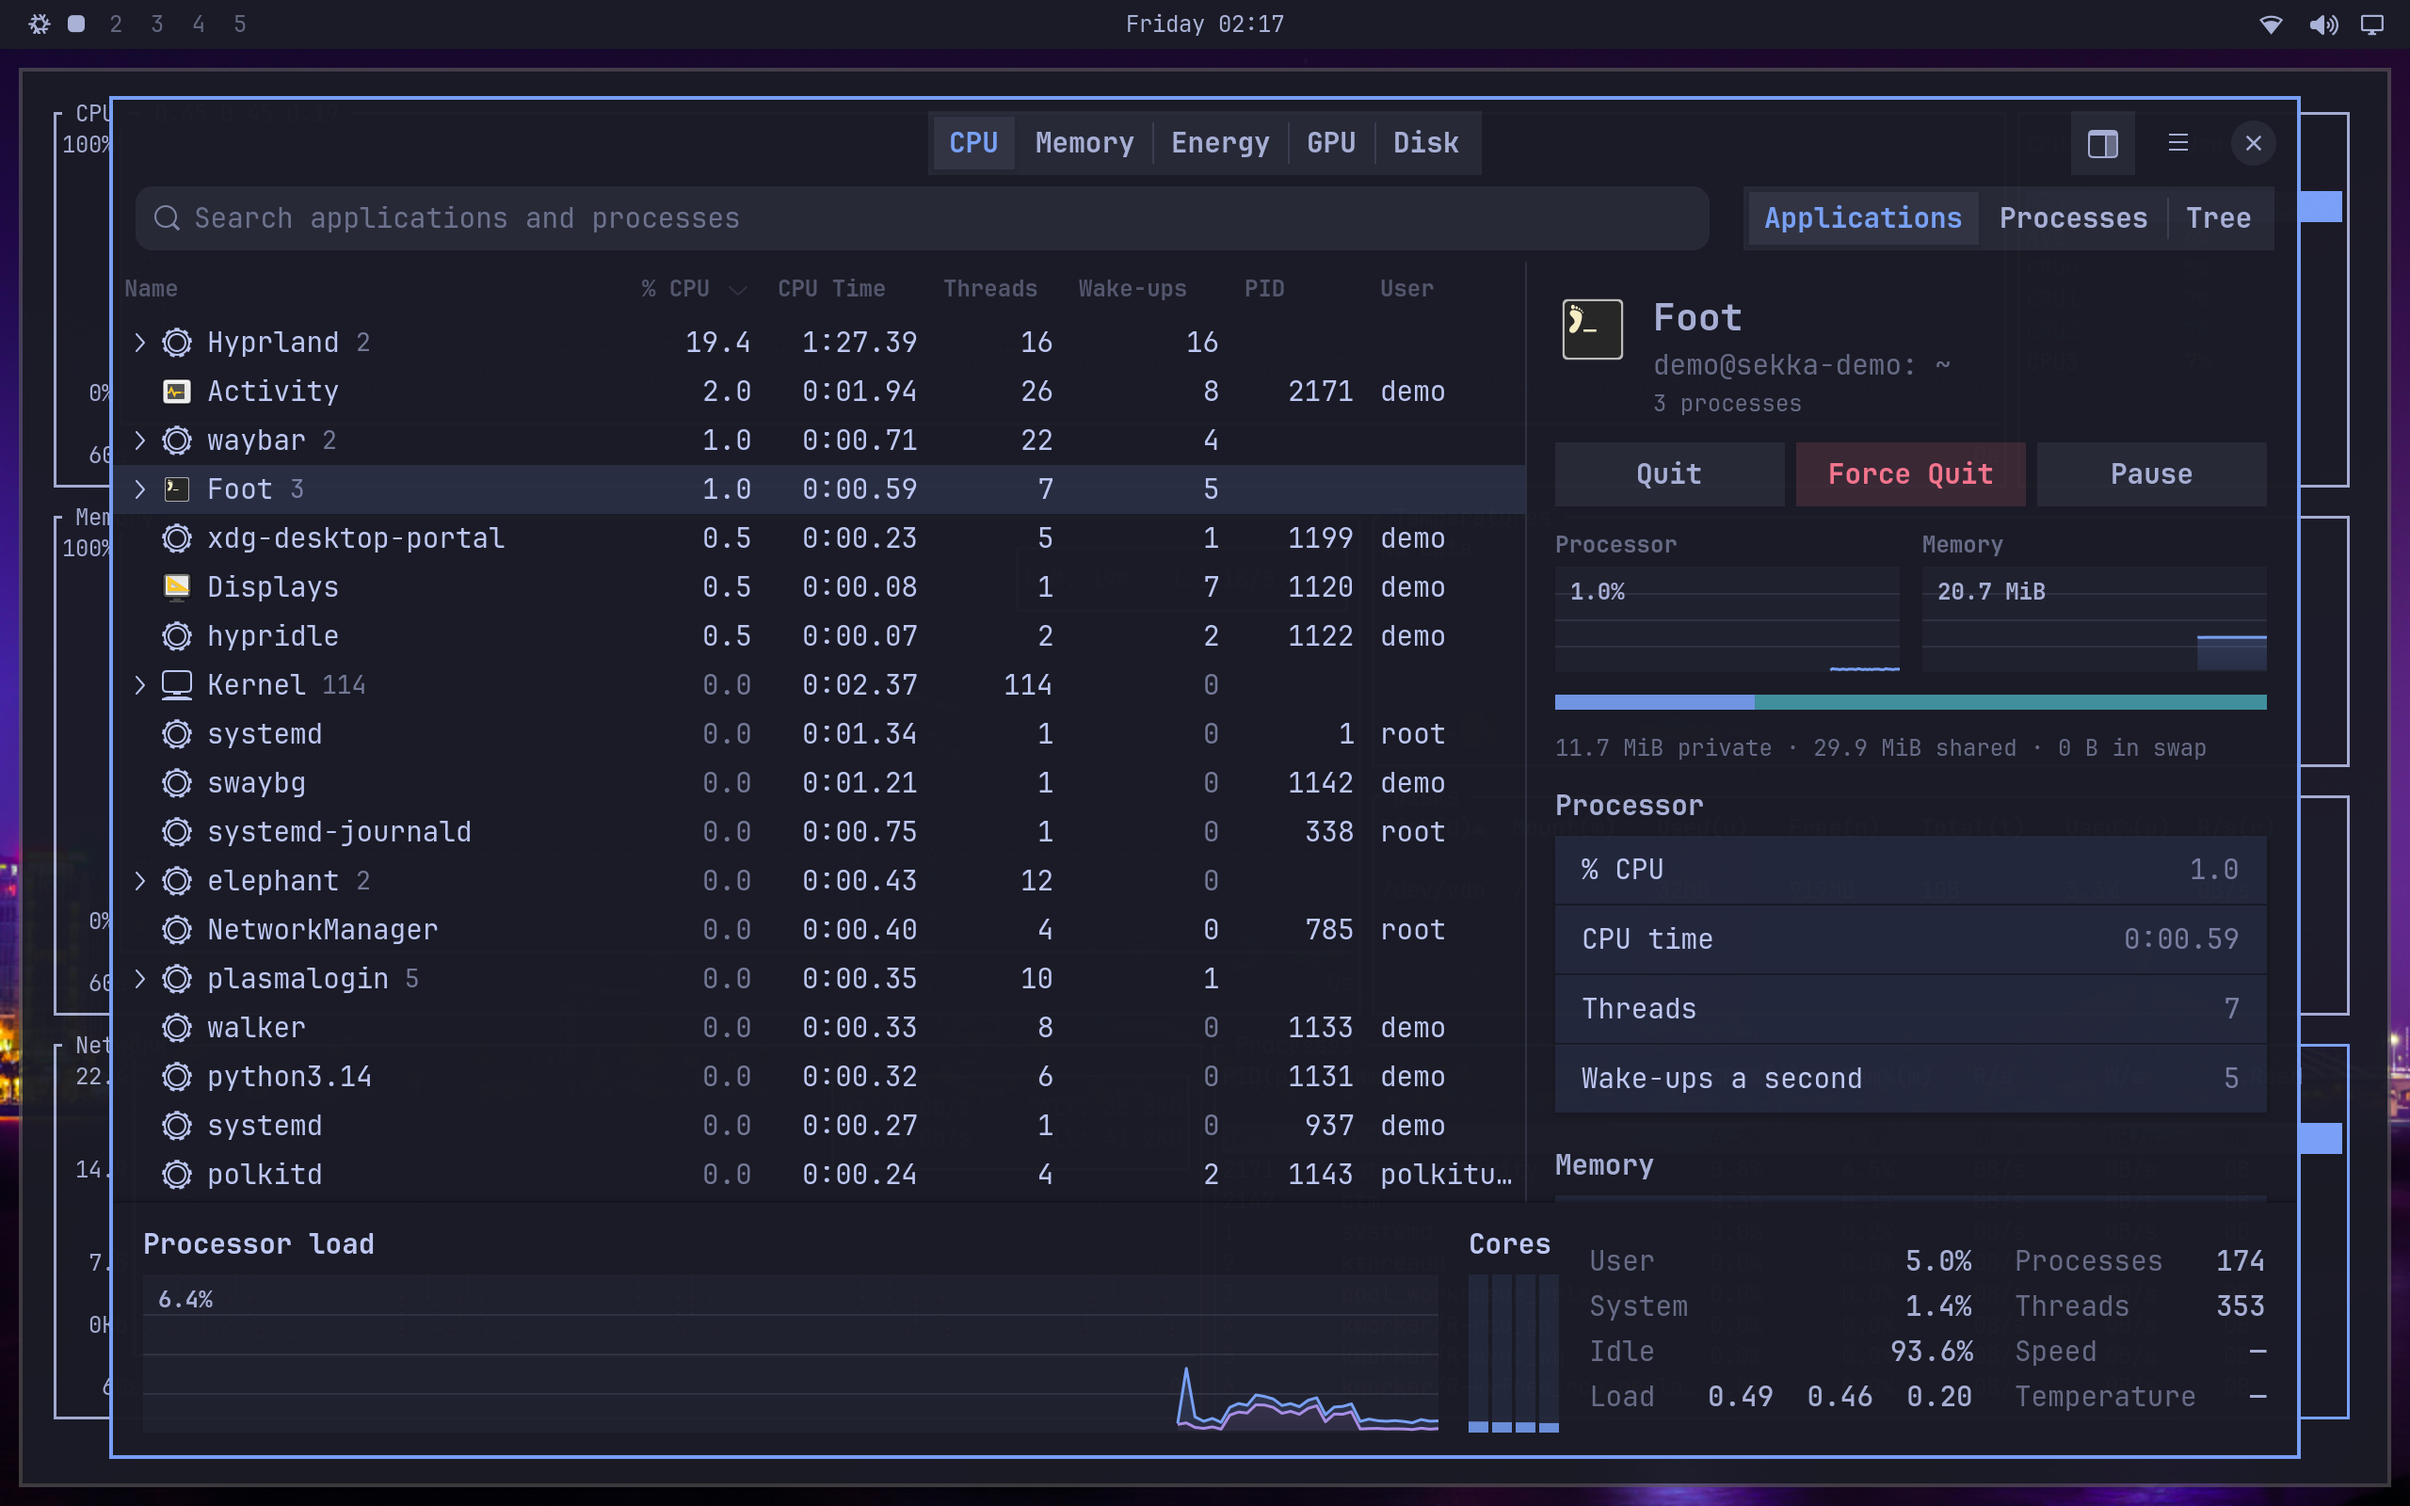
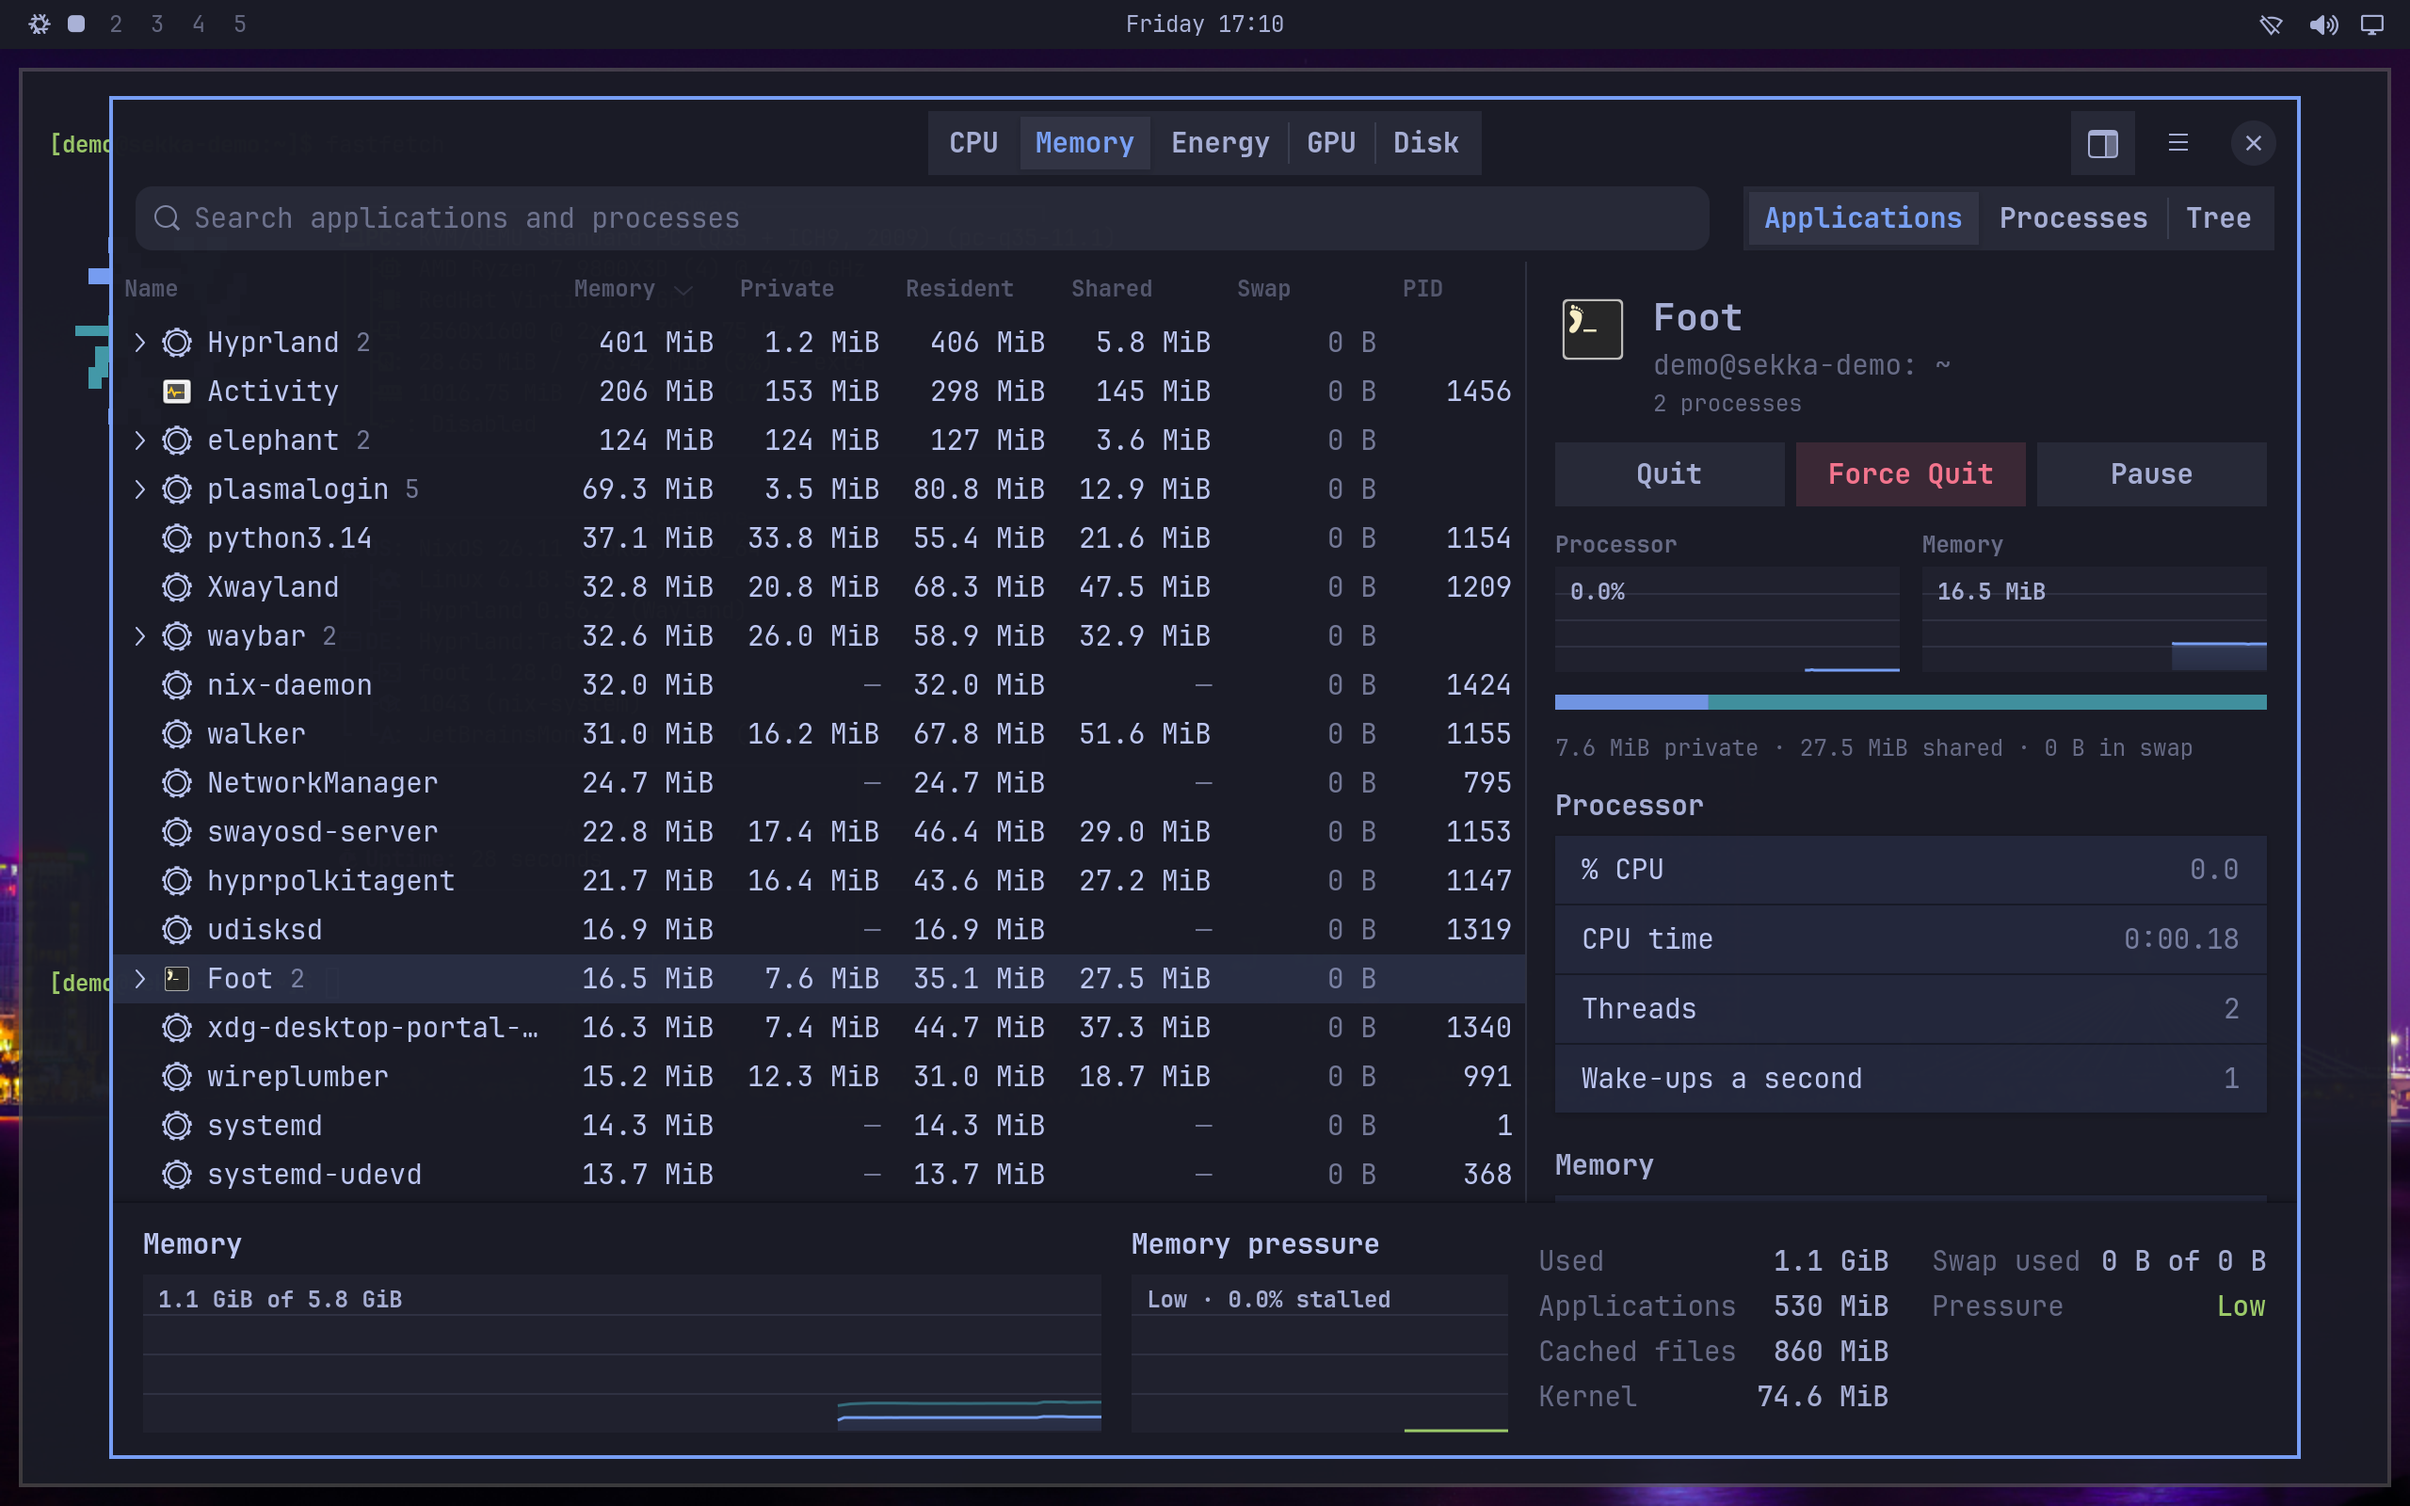
Show Activity on sekka.computer instead of bottom
The screenshot VM's Tatami scene now opens Activity with Super+Ctrl+T over
a terminal running fastfetch, as a person would, instead of tiling bottom
beside it. After a minute of readings it captures tatami.png, the site's
home page hero: Activity on its CPU view, with the terminal it opened on
selected. tatami-menu.png is the menu over that scene, and activity.png is
the same window's Memory view (Ctrl+2), with each application's
proportional, private, resident and shared memory. bottom is no longer
installed in the screenshot VM.

The three images are byte-for-byte copies of 2560 x 1600 captures from
nix build .#screenshots; the others are unchanged. The site's captions,
the README's alt text and docs/screenshots.md describe the new captures.

diff --git a/site/src/pages.rs b/site/src/pages.rs
@@ -26,8 +26,8 @@ pub fn home(site: &Site) -> Result<Page> {
             .inline("sekka-lockup-night.svg", "hero-lockup", "Sekka 雪花")?,
         shot = site.shot(
             "tatami.png",
-            "Tatami with two terminals tiled side by side: fastfetch and bottom, in Tokyo Night colours.",
-            "Tatami in a disposable test VM built from Sekka's own modules.",
+            "Tatami's Activity window over a terminal, in Tokyo Night colours: applications by processor use, with the terminal selected in the inspector, and the processor's load and cores under the list.",
+            "Activity, opened with Super + Ctrl + T over a terminal, in a disposable test VM built from Sekka's own modules.",
             "win hero-shot",
         )?,
     )?;
@@ -88,7 +88,7 @@ pub fn home(site: &Site) -> Result<Page> {
         )?,
         tatami_shot = site.shot(
             "tatami-menu.png",
-            "Tatami's menu open over two terminals: Apps, Learn, Trigger, Style, Setup, About and System.",
+            "Tatami's menu open over Activity: Apps, Learn, Trigger, Style, Setup, About and System.",
             "The menu, opened with Super + Space. The bar still shows the NixOS logo.",
             "",
         )?,
@@ -178,7 +178,7 @@ pub fn tatami(site: &Site) -> Result<Page> {
         icon = site.asset("brand/tatami.svg")?,
         shot = site.shot(
             "tatami-menu.png",
-            "Tatami's menu open over two terminals: fastfetch and bottom.",
+            "Tatami's menu open over Activity and a terminal.",
             "Tatami's menu (Super + Space) in a disposable test VM. The bar still shows the NixOS logo.",
             "win wide-shot",
         )?,
@@ -274,8 +274,8 @@ pub fn tatami(site: &Site) -> Result<Page> {
 "#,
         shot = site.shot(
             "activity.png",
-            "Tatami's Activity window on its CPU view: applications by processor use, Hyprland first, with the terminal running bottom selected in the inspector, and the processor load and cores under the list.",
-            "Activity (Super + Ctrl + T) in a disposable test VM, after a minute of readings. Hyprland's share is Mesa drawing in software; the VM reports no processor speed or temperature.",
+            "Tatami's Activity window on its Memory view: each application's proportional, private, resident and shared memory, Hyprland first, with the terminal selected in the inspector, and memory use and pressure under the list.",
+            "Activity's Memory view (Ctrl + 2) in a disposable test VM. Dashes are root's processes, whose memory maps a user can't read; Hyprland's memory includes Mesa drawing in software.",
             "win",
         )?,
     )?;

diff --git a/docs/screenshots.md b/docs/screenshots.md
@@ -6,13 +6,13 @@ files. They are not upscaled, composited, or generated illustrations.
 | Image | Original resolution | What it shows |
 | --- | --- | --- |
 | [Genkan](images/sekka/genkan.png) | 2560 × 1600 | Current GTK interface in its debug-only welcome preview, with synthetic installation/cache data, on Sekka's Plasma session |
-| [Tatami](images/sekka/tatami.png) | 2560 × 1600 | Tatami with two terminals opened with Super+Return: Tatami's fastfetch, and bottom |
-| [Tatami menu](images/sekka/tatami-menu.png) | 2560 × 1600 | The Tatami menu, opened with Super+Space over the same terminals |
+| [Tatami](images/sekka/tatami.png) | 2560 × 1600 | Tatami's Activity window on its CPU view, opened with Super+Ctrl+T over a terminal (Super+Return) running Tatami's fastfetch, with that terminal selected, after a minute of readings |
+| [Tatami menu](images/sekka/tatami-menu.png) | 2560 × 1600 | The Tatami menu, opened with Super+Space over Activity and the terminal |
 | [Yukimi](images/sekka/yukimi.png) | 2560 × 1600 | Current application in Tatami, reading the test VM `sekka-demo` |
 | [Plasma](images/sekka/plasma.png) | 2560 × 1600 | Sekka's Plasma session with Konsole running fastfetch over Dolphin |
 | [GNOME](images/sekka/gnome.png) | 2560 × 1600 | Sekka's GNOME session with Files over Yukimi |
 | [Network](images/sekka/network.png) | 2560 × 1600 | Tatami's Network window, joined to a simulated network, with made-up network names |
-| [Activity](images/sekka/activity.png) | 2560 × 1600 | Tatami's Activity window on its CPU view, opened as Super+Ctrl+T opens it over a terminal running bottom, with that terminal selected, after a minute of readings |
+| [Activity](images/sekka/activity.png) | 2560 × 1600 | The same Activity window on its Memory view (Ctrl+2): each application's proportional, private, resident and shared memory, and memory use and pressure under the list |
 
 They come from [nix/screenshots.nix](../nix/screenshots.nix):
 
@@ -35,10 +35,11 @@ unavailable freshness information. The Network window reads the VM's real
 NetworkManager, but its Wi-Fi is simulated (mac80211_hwsim, with hostapd and
 a DHCP server): Home, Café Corner, Riverside Library and Studio 5G are
 made-up names, and the saved networks and WireGuard VPN were set up by the
-test. Activity reads the VM's real processes; it is started with
-`tatami launch tatami-activity`, the command Super+Ctrl+T runs. Hyprland's
-share of the processor is Mesa drawing in software, and the VM reports no
-processor speed or temperature, which show as dashes. None of these is a
+test. Activity reads the VM's real processes and is opened with
+Super+Ctrl+T. Hyprland's share of the processor is Mesa drawing in software,
+most of all while the menu animates, and the VM reports no processor speed or
+temperature, which show as dashes; so do the memory maps of root's processes,
+which a user can't read. None of these is a
 screenshot of an installed Sekka release, and automatic login is set only in
 the test.
 

diff --git a/README.md b/README.md
@@ -73,11 +73,11 @@ Sekka also enables USB keyboard and mouse wake paths, including their parent
 hubs. Waking from an intentional suspend still depends on the hardware and
 firmware; try a key or mouse button if mouse movement does not wake it.
 
-[![Tatami with two terminals: fastfetch and bottom](docs/images/sekka/tatami.png)](docs/images/sekka/tatami.png)
+[![Activity open over a terminal in Tatami, with the terminal selected](docs/images/sekka/tatami.png)](docs/images/sekka/tatami.png)
 
-[![The Tatami menu over the terminals](docs/images/sekka/tatami-menu.png)](docs/images/sekka/tatami-menu.png)
+[![The Tatami menu over Activity](docs/images/sekka/tatami-menu.png)](docs/images/sekka/tatami-menu.png)
 
-[![Activity on its CPU view, with a terminal running bottom selected](docs/images/sekka/activity.png)](docs/images/sekka/activity.png)
+[![Activity on its Memory view: each application's proportional, private, resident and shared memory](docs/images/sekka/activity.png)](docs/images/sekka/activity.png)
 
 ### Yukimi: see and change your system
 
